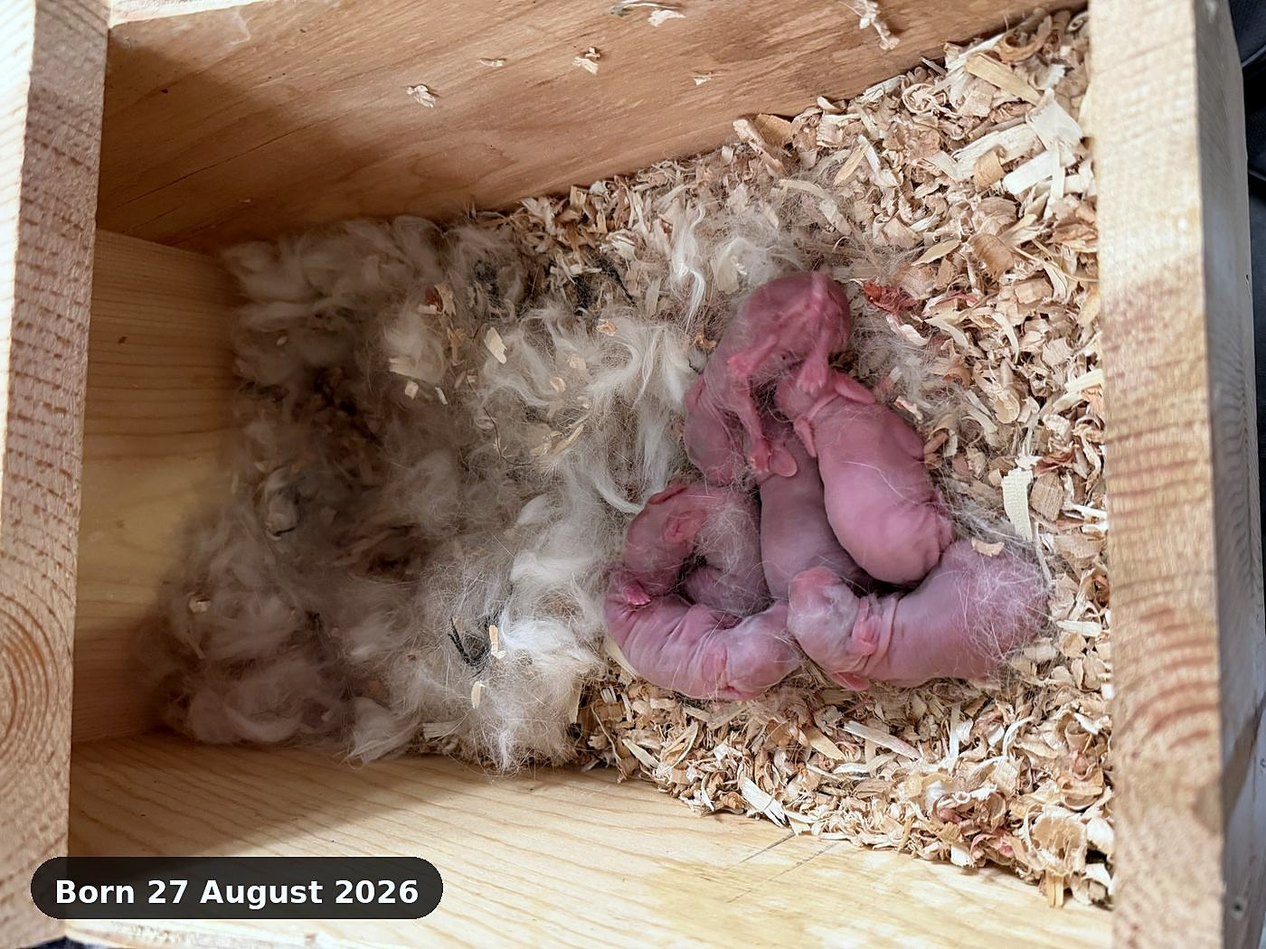
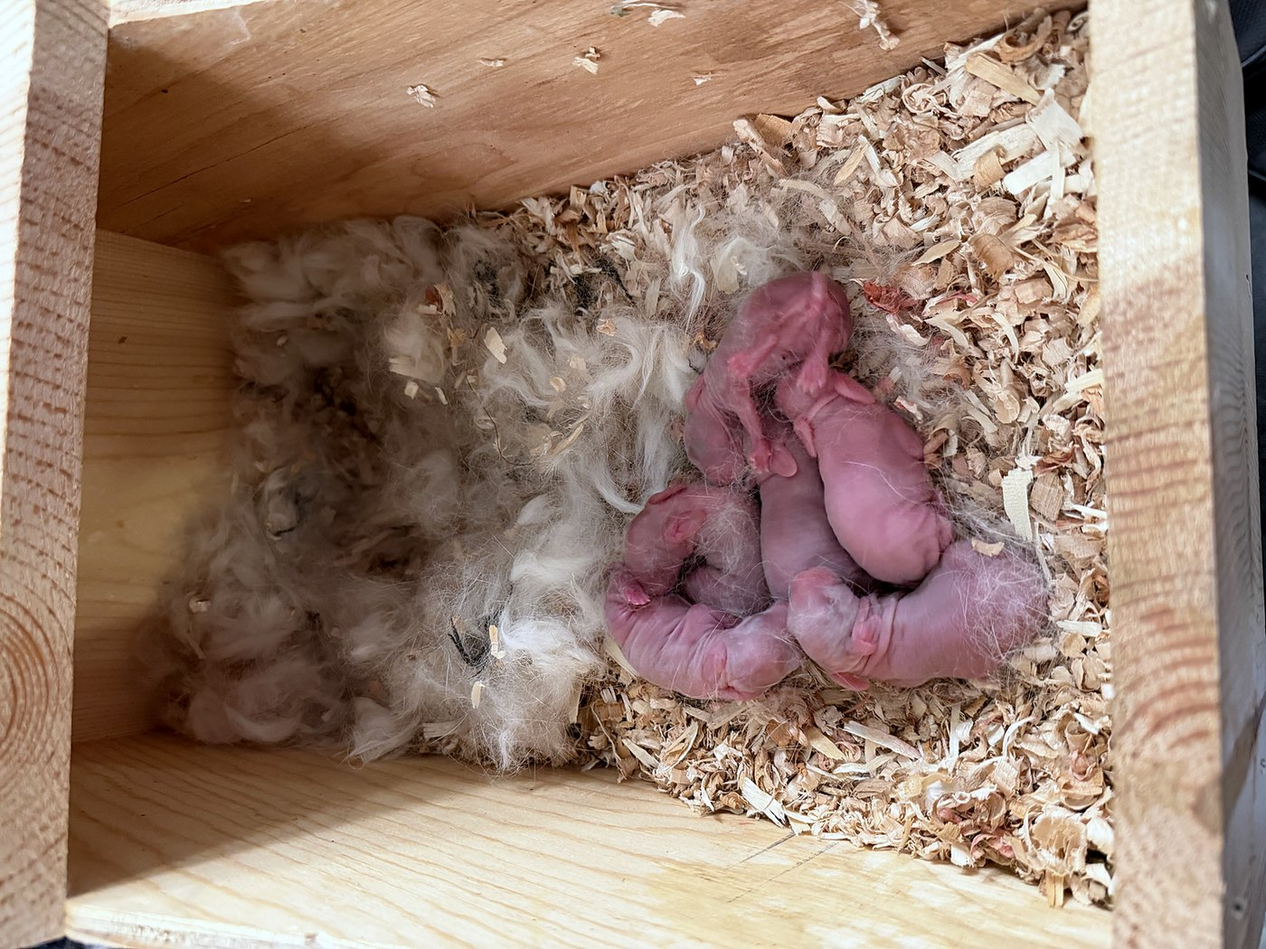
The litters follow the listing: clean photographs, the same pill, the same frame
Make the litters follow the same photo format as the rabbits. No photograph
on the site carries a burned date any more: the six litter photographs are
rebuilt from their originals with the framing they have always had, and the
litter photo view is built on the listing's stage, with the listing's own
date pill over the same corner at the same size, the frame the picture's own
shape, the same width as a listing's stage on a phone and on a desktop.

Claude-Session: https://claude.ai/code/session_01VUqLFuDNtaLypySjv9cGdS

Changed region(s): [[0.0, 0.8838, 0.3686, 0.9752]]

diff --git a/litters.html b/litters.html
@@ -4,19 +4,19 @@
 <meta charset="utf-8">
 <meta name="viewport" content="width=device-width, initial-scale=1, viewport-fit=cover">
 <title>Litters | Arizona Rabbits</title>
-<meta name="description" content="The photo I take the day a litter is born, with the date on the picture itself.">
+<meta name="description" content="The photo I take the day a litter is born, kept from then on with the date I took it.">
 <meta name="theme-color" content="#241F1D">
 <link rel="canonical" href="https://arizonarabbits.com/litters">
 
 <meta property="og:type" content="website">
 <meta property="og:site_name" content="Arizona Rabbits">
 <meta property="og:title" content="Every litter, with the photo taken the day they were born">
-<meta property="og:description" content="A dated record of every litter raised at Arizona Rabbits in Tucson. The date is burned into each photograph so you can check it yourself.">
+<meta property="og:description" content="A dated record of every litter raised at Arizona Rabbits in Tucson: the photo from the day each one was born, and the ones after as they grow, each with the date it was taken.">
 <meta property="og:url" content="https://arizonarabbits.com/litters">
 <meta property="og:image" content="https://arizonarabbits.com/img/og.jpg?v=6">
 <meta name="twitter:card" content="summary_large_image">
 <meta name="twitter:title" content="Every litter, with the photo taken the day they were born">
-<meta name="twitter:description" content="A dated record of every litter raised at Arizona Rabbits in Tucson. The date is burned into each photograph so you can check it yourself.">
+<meta name="twitter:description" content="A dated record of every litter raised at Arizona Rabbits in Tucson: the photo from the day each one was born, and the ones after as they grow, each with the date it was taken.">
 <meta name="twitter:image" content="https://arizonarabbits.com/img/og.jpg?v=6">
 
 <link rel="preconnect" href="https://fonts.googleapis.com">
@@ -125,18 +125,41 @@ h1{font-family:var(--serif);font-weight:600;font-size:clamp(30px,5vw,40px);
   font-size:11.5px;font-weight:600;letter-spacing:.02em;pointer-events:none;
   box-shadow:var(--lift-photo)}
 .shots svg{width:12px;height:12px;stroke:currentColor;fill:none;stroke-width:2}
-.lbox{position:fixed;inset:0;z-index:50;background:rgba(24,20,18,.94);display:flex;
-  flex-direction:column;align-items:center;justify-content:center;padding:56px 14px 22px}
-.lbox[hidden]{display:none}
-.lbox img{max-width:100%;max-height:calc(100vh - 190px);border-radius:8px;background:#000;
-  object-fit:contain}
 
-.lbox-stamp{margin-top:12px;display:inline-flex;gap:6px;align-items:baseline;padding:6px 14px;
-  border-radius:100px;background:rgba(255,255,255,.12);color:#fff;font-size:13.5px;font-weight:600;
-  white-space:nowrap}
-.lbox-stamp small{font-weight:500;opacity:.75;font-size:12.5px}
+.lbox{position:fixed;inset:0;z-index:50;background:rgba(24,20,18,.94);display:flex;
+  flex-direction:column;align-items:center;justify-content:center;padding:56px 8px 22px}
+.lbox[hidden]{display:none}
+.lbox-stage{position:relative;width:100%;aspect-ratio:var(--stage-ar,4/3);
+  max-width:calc((100vh - 190px) * var(--stage-ar,4/3));
+  border-radius:8px;overflow:hidden;background:#000;box-shadow:var(--lift-photo);flex:none}
+.lbox-stage img{position:absolute;inset:0;width:100%;height:100%;object-fit:cover;border-radius:0}
+.lbox-stage video{position:absolute;inset:0;width:100%;height:100%;object-fit:contain;background:#1A1613}
+.lbox-stage.video .vborn{bottom:60px}
+
+@media(min-width:920px){
+  .lbox-stage{width:min(100%,56vw,605px)}
+}
+
+.vborn{position:absolute;left:12px;bottom:12px;z-index:2;
+  display:inline-flex;align-items:center;gap:6px;max-width:calc(100% - 24px);
+  padding:6px 12px;border-radius:100px;
+  background:rgba(24,20,18,.62);color:#fff;
+  font-size:12.5px;font-weight:600;letter-spacing:.03em;line-height:1.25;
+  -webkit-backdrop-filter:blur(7px) saturate(1.2);backdrop-filter:blur(7px) saturate(1.2)}
+@media(prefers-reduced-transparency:reduce){
+  .vborn{background:rgba(24,20,18,.9);-webkit-backdrop-filter:none;backdrop-filter:none}
+}
+.vcam{width:14px;height:14px;flex:none;stroke:currentColor;fill:none;
+  stroke-width:2.2;stroke-linecap:round;stroke-linejoin:round}
+.vborn.nocam .vcam{display:none}
+.vborn .vfilm{display:none}
+.vborn.film .vcam{display:none}
+.vborn.film .vfilm{display:block;width:14px;height:14px;flex:none;stroke:currentColor;fill:none;
+  stroke-width:2.2;stroke-linecap:round;stroke-linejoin:round}
+.sr-only{position:absolute;width:1px;height:1px;padding:0;margin:-1px;
+  overflow:hidden;clip:rect(0 0 0 0);white-space:nowrap;border:0}
 .lbox-cap{color:#fff;opacity:.85;font-size:15px;line-height:1.45;text-align:center;
-  max-width:560px;margin:10px 0 0;min-height:1.45em}
+  max-width:560px;margin:12px 0 0;min-height:1.45em}
 .lbox button{position:absolute;border:0;border-radius:100px;background:rgba(255,255,255,.22);box-shadow:0 1px 6px rgba(0,0,0,.35);
   color:#fff;font-family:inherit;font-size:15px;font-weight:600;cursor:pointer;width:44px;height:44px;
   display:flex;align-items:center;justify-content:center;line-height:1}
@@ -234,7 +257,6 @@ body.lbox-open{overflow:hidden}
 .litter-set figure .clip{position:relative;display:block}
 .litter-set figure .pv{width:44px;height:44px;left:50%;top:50%;transform:translate(-50%,-50%)}
 .litter-set figure .pv::before{border-width:8px 0 8px 13px;margin-left:3px}
-.lbox video{max-width:100%;max-height:calc(100vh - 190px);border-radius:8px;background:#000;display:block}
 .lbox img[hidden],.lbox video[hidden]{display:none}
 .litter p{color:var(--ink-soft)}
 .litter p + p{margin-top:10px}
@@ -348,7 +370,7 @@ h1,h2,h3{text-wrap:balance}
       <a class="allback" href="#all">&larr; All litters</a>
       <div class="litter-card">
         <div class="litter-media" data-note="Six of them, in a nest of shavings and the fur their mother pulled to line it.">
-          <img src="photos/litter-2026-08-27.jpg?v=a335df58" srcset="photos/litter-2026-08-27.160.a335df58.jpg 160w, photos/litter-2026-08-27.320.a335df58.jpg 320w, photos/litter-2026-08-27.640.a335df58.jpg 640w, photos/litter-2026-08-27.960.a335df58.jpg 960w, photos/litter-2026-08-27.jpg?v=a335df58 1400w" sizes="(min-width:940px) 896px, 100vw" width="1400" height="1050"
+          <img src="photos/litter-2026-08-27.jpg?v=bcb889d9" srcset="photos/litter-2026-08-27.160.bcb889d9.jpg 160w, photos/litter-2026-08-27.320.bcb889d9.jpg 320w, photos/litter-2026-08-27.640.bcb889d9.jpg 640w, photos/litter-2026-08-27.960.bcb889d9.jpg 960w, photos/litter-2026-08-27.jpg?v=bcb889d9 1400w" sizes="(min-width:940px) 896px, 100vw" width="1400" height="1050"
                alt="Six newborn kits curled together in a wooden nest box lined with wood shavings and pulled fur">
         </div>
         <div class="litter-body">
@@ -379,21 +401,21 @@ h1,h2,h3{text-wrap:balance}
             <h3>As they grow</h3>
             <div class="frames">
               <figure>
-                <img src="photos/litter-2026-08-27-2026-09-02.jpg?v=41251654" srcset="photos/litter-2026-08-27-2026-09-02.160.41251654.jpg 160w, photos/litter-2026-08-27-2026-09-02.320.41251654.jpg 320w, photos/litter-2026-08-27-2026-09-02.640.41251654.jpg 640w, photos/litter-2026-08-27-2026-09-02.960.41251654.jpg 960w, photos/litter-2026-08-27-2026-09-02.jpg?v=41251654 1050w" sizes="(min-width:700px) 275px, 36vw" width="1050" height="1400" loading="lazy"
+                <img src="photos/litter-2026-08-27-2026-09-02.jpg?v=84f3e84e" srcset="photos/litter-2026-08-27-2026-09-02.160.84f3e84e.jpg 160w, photos/litter-2026-08-27-2026-09-02.320.84f3e84e.jpg 320w, photos/litter-2026-08-27-2026-09-02.640.84f3e84e.jpg 640w, photos/litter-2026-08-27-2026-09-02.960.84f3e84e.jpg 960w, photos/litter-2026-08-27-2026-09-02.jpg?v=84f3e84e 1050w" sizes="(min-width:700px) 275px, 36vw" width="1050" height="1400" loading="lazy"
                      alt="Six six-day-old kits on the floor beside the cage, one white and five fawn">
                 <figcaption><time datetime="2026-09-02">2 Sep 2026</time></figcaption>
                 <p>Six days old. One white and five fawn.</p>
               </figure>
               
               <figure>
-                <img src="photos/litter-2026-08-27-2026-09-06.jpg?v=4439e3b5" srcset="photos/litter-2026-08-27-2026-09-06.160.4439e3b5.jpg 160w, photos/litter-2026-08-27-2026-09-06.320.4439e3b5.jpg 320w, photos/litter-2026-08-27-2026-09-06.640.4439e3b5.jpg 640w, photos/litter-2026-08-27-2026-09-06.960.4439e3b5.jpg 960w, photos/litter-2026-08-27-2026-09-06.jpg?v=4439e3b5 1050w" sizes="(min-width:700px) 275px, 36vw" width="1050" height="1400" loading="lazy"
+                <img src="photos/litter-2026-08-27-2026-09-06.jpg?v=a2394528" srcset="photos/litter-2026-08-27-2026-09-06.160.a2394528.jpg 160w, photos/litter-2026-08-27-2026-09-06.320.a2394528.jpg 320w, photos/litter-2026-08-27-2026-09-06.640.a2394528.jpg 640w, photos/litter-2026-08-27-2026-09-06.960.a2394528.jpg 960w, photos/litter-2026-08-27-2026-09-06.jpg?v=a2394528 1050w" sizes="(min-width:700px) 275px, 36vw" width="1050" height="1400" loading="lazy"
                      alt="Six ten-day-old kits in the nest box, one white and five fawn, one held in a hand">
                 <figcaption><time datetime="2026-09-06">6 Sep 2026</time></figcaption>
                 <p>Ten days old. All six in the nest box, one in hand.</p>
               </figure>
               
               <figure>
-                <img src="photos/litter-2026-08-27-2026-09-08.jpg?v=5391d20d" srcset="photos/litter-2026-08-27-2026-09-08.160.5391d20d.jpg 160w, photos/litter-2026-08-27-2026-09-08.320.5391d20d.jpg 320w, photos/litter-2026-08-27-2026-09-08.640.5391d20d.jpg 640w, photos/litter-2026-08-27-2026-09-08.960.5391d20d.jpg 960w, photos/litter-2026-08-27-2026-09-08.jpg?v=5391d20d 1050w" sizes="(min-width:700px) 275px, 36vw" width="1050" height="1400" loading="lazy"
+                <img src="photos/litter-2026-08-27-2026-09-08.jpg?v=4c19393d" srcset="photos/litter-2026-08-27-2026-09-08.160.4c19393d.jpg 160w, photos/litter-2026-08-27-2026-09-08.320.4c19393d.jpg 320w, photos/litter-2026-08-27-2026-09-08.640.4c19393d.jpg 640w, photos/litter-2026-08-27-2026-09-08.960.4c19393d.jpg 960w, photos/litter-2026-08-27-2026-09-08.jpg?v=4c19393d 1050w" sizes="(min-width:700px) 275px, 36vw" width="1050" height="1400" loading="lazy"
                      alt="A twelve-day-old fawn kit lying on a grey towel in the cage, its eye open">
                 <figcaption><time datetime="2026-09-08">8 Sep 2026</time></figcaption>
                 <p>Twelve days old. Their eyes are starting to open.</p>
@@ -425,7 +447,7 @@ h1,h2,h3{text-wrap:balance}
       <a class="allback" href="#all">&larr; All litters</a>
       <div class="litter-card">
         <div class="litter-media" data-note="The day they arrived, before their eyes were open.">
-          <img src="photos/litter-2026-07-28.jpg?v=5d9e67b0" srcset="photos/litter-2026-07-28.160.5d9e67b0.jpg 160w, photos/litter-2026-07-28.320.5d9e67b0.jpg 320w, photos/litter-2026-07-28.640.5d9e67b0.jpg 640w, photos/litter-2026-07-28.960.5d9e67b0.jpg 960w, photos/litter-2026-07-28.jpg?v=5d9e67b0 1400w" sizes="(min-width:940px) 896px, 100vw" width="1400" height="1050"
+          <img src="photos/litter-2026-07-28.jpg?v=36389c88" srcset="photos/litter-2026-07-28.160.36389c88.jpg 160w, photos/litter-2026-07-28.320.36389c88.jpg 320w, photos/litter-2026-07-28.640.36389c88.jpg 640w, photos/litter-2026-07-28.960.36389c88.jpg 960w, photos/litter-2026-07-28.jpg?v=36389c88 1400w" sizes="(min-width:940px) 896px, 100vw" width="1400" height="1050"
                alt="Newborn kits curled together in a hay and fur nest box, with a month-old fawn rabbit from the previous litter beside them">
         </div>
         <div class="litter-body">
@@ -480,7 +502,7 @@ h1,h2,h3{text-wrap:balance}
       <a class="allback" href="#all">&larr; All litters</a>
       <div class="litter-card">
         <div class="litter-media" data-note="One of the five on the day they were born, over the fur their mother pulled for a nest.">
-          <img src="photos/litter-2026-06-28.jpg?v=8eabab02" srcset="photos/litter-2026-06-28.160.8eabab02.jpg 160w, photos/litter-2026-06-28.320.8eabab02.jpg 320w, photos/litter-2026-06-28.640.8eabab02.jpg 640w, photos/litter-2026-06-28.960.8eabab02.jpg 960w, photos/litter-2026-06-28.jpg?v=8eabab02 1400w" sizes="(min-width:940px) 896px, 100vw" width="1400" height="1050"
+          <img src="photos/litter-2026-06-28.jpg?v=5816cb81" srcset="photos/litter-2026-06-28.160.5816cb81.jpg 160w, photos/litter-2026-06-28.320.5816cb81.jpg 320w, photos/litter-2026-06-28.640.5816cb81.jpg 640w, photos/litter-2026-06-28.960.5816cb81.jpg 960w, photos/litter-2026-06-28.jpg?v=5816cb81 1400w" sizes="(min-width:940px) 896px, 100vw" width="1400" height="1050"
                alt="A newborn kit in William's hand above a metal tray lined with pulled fur, inside a green cage">
         </div>
         <div class="litter-body">
@@ -513,16 +535,15 @@ h1,h2,h3{text-wrap:balance}
 
     <div class="browse" id="all">
 
-      <p class="lede">The photo I take the day a litter is born, kept here from then on. The
-      date is on the picture itself, so you can see for yourself that these are mine. Every
-      litter I have ever had is here, nothing left out, starting with my first ever on
-      28 June 2026. Anything newer than the last litter here is in the
+      <p class="lede">The photo I take the day a litter is born, kept here from then on with
+      the date I took it. Every litter I have ever had is here, nothing left out, starting
+      with my first ever on 28 June 2026. Anything newer than the last litter here is in the
       <a class="xlink" href="updates.html">news</a>.</p>
 
       <div class="grid">
 
         <a class="tile" href="#L2026-08-27">
-          <img src="photos/litter-2026-08-27.jpg?v=a335df58" srcset="photos/litter-2026-08-27.160.a335df58.jpg 160w, photos/litter-2026-08-27.320.a335df58.jpg 320w, photos/litter-2026-08-27.640.a335df58.jpg 640w, photos/litter-2026-08-27.960.a335df58.jpg 960w, photos/litter-2026-08-27.jpg?v=a335df58 1400w" sizes="(min-width:700px) 275px, 36vw" width="1400" height="1050" loading="lazy"
+          <img src="photos/litter-2026-08-27.jpg?v=bcb889d9" srcset="photos/litter-2026-08-27.160.bcb889d9.jpg 160w, photos/litter-2026-08-27.320.bcb889d9.jpg 320w, photos/litter-2026-08-27.640.bcb889d9.jpg 640w, photos/litter-2026-08-27.960.bcb889d9.jpg 960w, photos/litter-2026-08-27.jpg?v=bcb889d9 1400w" sizes="(min-width:700px) 275px, 36vw" width="1400" height="1050" loading="lazy"
                alt="Six newborn kits in a nest of wood shavings and pulled fur">
           <div class="tile-body">
             <small data-fact="litter-no:2026-08-27" class="tile-no">Third litter</small>
@@ -533,7 +554,7 @@ h1,h2,h3{text-wrap:balance}
         </a>
 
         <a class="tile" href="#L2026-07-28">
-          <img src="photos/litter-2026-07-28.jpg?v=5d9e67b0" srcset="photos/litter-2026-07-28.160.5d9e67b0.jpg 160w, photos/litter-2026-07-28.320.5d9e67b0.jpg 320w, photos/litter-2026-07-28.640.5d9e67b0.jpg 640w, photos/litter-2026-07-28.960.5d9e67b0.jpg 960w, photos/litter-2026-07-28.jpg?v=5d9e67b0 1400w" sizes="(min-width:700px) 275px, 36vw" width="1400" height="1050" loading="lazy"
+          <img src="photos/litter-2026-07-28.jpg?v=36389c88" srcset="photos/litter-2026-07-28.160.36389c88.jpg 160w, photos/litter-2026-07-28.320.36389c88.jpg 320w, photos/litter-2026-07-28.640.36389c88.jpg 640w, photos/litter-2026-07-28.960.36389c88.jpg 960w, photos/litter-2026-07-28.jpg?v=36389c88 1400w" sizes="(min-width:700px) 275px, 36vw" width="1400" height="1050" loading="lazy"
                alt="Newborn kits curled together in a hay and fur nest box">
           <div class="tile-body">
             <small data-fact="litter-no:2026-07-28" class="tile-no">Second litter</small>
@@ -544,7 +565,7 @@ h1,h2,h3{text-wrap:balance}
         </a>
 
         <a class="tile" href="#L2026-06-28">
-          <img src="photos/litter-2026-06-28.jpg?v=8eabab02" srcset="photos/litter-2026-06-28.160.8eabab02.jpg 160w, photos/litter-2026-06-28.320.8eabab02.jpg 320w, photos/litter-2026-06-28.640.8eabab02.jpg 640w, photos/litter-2026-06-28.960.8eabab02.jpg 960w, photos/litter-2026-06-28.jpg?v=8eabab02 1400w" sizes="(min-width:700px) 275px, 36vw" width="1400" height="1050" loading="lazy"
+          <img src="photos/litter-2026-06-28.jpg?v=5816cb81" srcset="photos/litter-2026-06-28.160.5816cb81.jpg 160w, photos/litter-2026-06-28.320.5816cb81.jpg 320w, photos/litter-2026-06-28.640.5816cb81.jpg 640w, photos/litter-2026-06-28.960.5816cb81.jpg 960w, photos/litter-2026-06-28.jpg?v=5816cb81 1400w" sizes="(min-width:700px) 275px, 36vw" width="1400" height="1050" loading="lazy"
                alt="A newborn kit in a hand above a tray lined with pulled fur">
           <div class="tile-body">
             <small data-fact="litter-no:2026-06-28" class="tile-no">First litter</small>
@@ -576,8 +597,8 @@ h1,h2,h3{text-wrap:balance}
   </div>
 </footer>
 
-<script id="photoFocus" type="application/json">{"photos/litter-2026-08-27-2026-09-06.jpg":"50% 37.4%","photos/litter-2026-08-27-2026-09-08.jpg":"50% 36.4%","photos/litter-2026-08-27-2026-09-11-video.jpg":"0% 50%"}</script>
-<script id="photoSizes" type="application/json">{"img/about.jpg":{"v":[[160,"img/about.160.3a9c523e.jpg"],[320,"img/about.320.3a9c523e.jpg"],[640,"img/about.640.3a9c523e.jpg"],[960,"img/about.960.3a9c523e.jpg"]],"w":1000},"img/included.jpg":{"v":[[160,"img/included.160.a2a15768.jpg"],[320,"img/included.320.a2a15768.jpg"],[640,"img/included.640.a2a15768.jpg"]],"w":800},"photos/butterscotch.jpg":{"v":[[160,"photos/butterscotch.160.4855dad5.jpg"],[320,"photos/butterscotch.320.4855dad5.jpg"],[640,"photos/butterscotch.640.4855dad5.jpg"],[960,"photos/butterscotch.960.4855dad5.jpg"]],"w":1000},"photos/cloud.jpg":{"v":[[160,"photos/cloud.160.936bda0a.jpg"],[320,"photos/cloud.320.936bda0a.jpg"],[640,"photos/cloud.640.936bda0a.jpg"],[960,"photos/cloud.960.936bda0a.jpg"]],"w":1000},"photos/father-2.jpg":{"v":[[160,"photos/father-2.160.607c5d09.jpg"],[320,"photos/father-2.320.607c5d09.jpg"],[640,"photos/father-2.640.607c5d09.jpg"],[960,"photos/father-2.960.607c5d09.jpg"]],"w":1448},"photos/father-video.jpg":{"v":[[160,"photos/father-video.160.539b3407.jpg"],[320,"photos/father-video.320.539b3407.jpg"],[640,"photos/father-video.640.539b3407.jpg"]],"w":960},"photos/litter-2026-06-28.jpg":{"v":[[160,"photos/litter-2026-06-28.160.8eabab02.jpg"],[320,"photos/litter-2026-06-28.320.8eabab02.jpg"],[640,"photos/litter-2026-06-28.640.8eabab02.jpg"],[960,"photos/litter-2026-06-28.960.8eabab02.jpg"]],"w":1400},"photos/litter-2026-07-28.jpg":{"v":[[160,"photos/litter-2026-07-28.160.5d9e67b0.jpg"],[320,"photos/litter-2026-07-28.320.5d9e67b0.jpg"],[640,"photos/litter-2026-07-28.640.5d9e67b0.jpg"],[960,"photos/litter-2026-07-28.960.5d9e67b0.jpg"]],"w":1400},"photos/litter-2026-08-27-2026-09-02.jpg":{"v":[[160,"photos/litter-2026-08-27-2026-09-02.160.41251654.jpg"],[320,"photos/litter-2026-08-27-2026-09-02.320.41251654.jpg"],[640,"photos/litter-2026-08-27-2026-09-02.640.41251654.jpg"],[960,"photos/litter-2026-08-27-2026-09-02.960.41251654.jpg"]],"w":1050},"photos/litter-2026-08-27-2026-09-06.jpg":{"v":[[160,"photos/litter-2026-08-27-2026-09-06.160.4439e3b5.jpg"],[320,"photos/litter-2026-08-27-2026-09-06.320.4439e3b5.jpg"],[640,"photos/litter-2026-08-27-2026-09-06.640.4439e3b5.jpg"],[960,"photos/litter-2026-08-27-2026-09-06.960.4439e3b5.jpg"]],"w":1050},"photos/litter-2026-08-27-2026-09-08.jpg":{"v":[[160,"photos/litter-2026-08-27-2026-09-08.160.5391d20d.jpg"],[320,"photos/litter-2026-08-27-2026-09-08.320.5391d20d.jpg"],[640,"photos/litter-2026-08-27-2026-09-08.640.5391d20d.jpg"],[960,"photos/litter-2026-08-27-2026-09-08.960.5391d20d.jpg"]],"w":1050},"photos/litter-2026-08-27-2026-09-11-video.jpg":{"v":[[160,"photos/litter-2026-08-27-2026-09-11-video.160.132b6984.jpg"],[320,"photos/litter-2026-08-27-2026-09-11-video.320.132b6984.jpg"],[640,"photos/litter-2026-08-27-2026-09-11-video.640.132b6984.jpg"],[960,"photos/litter-2026-08-27-2026-09-11-video.960.132b6984.jpg"]],"w":1289},"photos/litter-2026-08-27.jpg":{"v":[[160,"photos/litter-2026-08-27.160.a335df58.jpg"],[320,"photos/litter-2026-08-27.320.a335df58.jpg"],[640,"photos/litter-2026-08-27.640.a335df58.jpg"],[960,"photos/litter-2026-08-27.960.a335df58.jpg"]],"w":1400},"photos/mother-2.jpg":{"v":[[160,"photos/mother-2.160.55c3d426.jpg"],[320,"photos/mother-2.320.55c3d426.jpg"],[640,"photos/mother-2.640.55c3d426.jpg"],[960,"photos/mother-2.960.55c3d426.jpg"]],"w":1600},"photos/mother.jpg":{"v":[[160,"photos/mother.160.82c16a60.jpg"],[320,"photos/mother.320.82c16a60.jpg"],[640,"photos/mother.640.82c16a60.jpg"],[960,"photos/mother.960.82c16a60.jpg"]],"w":1600},"photos/sundae.jpg":{"v":[[160,"photos/sundae.160.9a03d75c.jpg"],[320,"photos/sundae.320.9a03d75c.jpg"],[640,"photos/sundae.640.9a03d75c.jpg"],[960,"photos/sundae.960.9a03d75c.jpg"]],"w":1000},"photos/teddy.jpg":{"v":[[160,"photos/teddy.160.9068ff3a.jpg"],[320,"photos/teddy.320.9068ff3a.jpg"],[640,"photos/teddy.640.9068ff3a.jpg"],[960,"photos/teddy.960.9068ff3a.jpg"]],"w":1000}}</script>
+<script id="photoFocus" type="application/json">{"photos/litter-2026-08-27-2026-09-06.jpg":"50% 37.6%","photos/litter-2026-08-27-2026-09-08.jpg":"50% 36.5%","photos/litter-2026-08-27-2026-09-11-video.jpg":"0% 50%"}</script>
+<script id="photoSizes" type="application/json">{"img/about.jpg":{"v":[[160,"img/about.160.3a9c523e.jpg"],[320,"img/about.320.3a9c523e.jpg"],[640,"img/about.640.3a9c523e.jpg"],[960,"img/about.960.3a9c523e.jpg"]],"w":1000},"img/included.jpg":{"v":[[160,"img/included.160.a2a15768.jpg"],[320,"img/included.320.a2a15768.jpg"],[640,"img/included.640.a2a15768.jpg"]],"w":800},"photos/butterscotch.jpg":{"v":[[160,"photos/butterscotch.160.4855dad5.jpg"],[320,"photos/butterscotch.320.4855dad5.jpg"],[640,"photos/butterscotch.640.4855dad5.jpg"],[960,"photos/butterscotch.960.4855dad5.jpg"]],"w":1000},"photos/cloud.jpg":{"v":[[160,"photos/cloud.160.936bda0a.jpg"],[320,"photos/cloud.320.936bda0a.jpg"],[640,"photos/cloud.640.936bda0a.jpg"],[960,"photos/cloud.960.936bda0a.jpg"]],"w":1000},"photos/father-2.jpg":{"v":[[160,"photos/father-2.160.607c5d09.jpg"],[320,"photos/father-2.320.607c5d09.jpg"],[640,"photos/father-2.640.607c5d09.jpg"],[960,"photos/father-2.960.607c5d09.jpg"]],"w":1448},"photos/father-video.jpg":{"v":[[160,"photos/father-video.160.539b3407.jpg"],[320,"photos/father-video.320.539b3407.jpg"],[640,"photos/father-video.640.539b3407.jpg"]],"w":960},"photos/litter-2026-06-28.jpg":{"v":[[160,"photos/litter-2026-06-28.160.5816cb81.jpg"],[320,"photos/litter-2026-06-28.320.5816cb81.jpg"],[640,"photos/litter-2026-06-28.640.5816cb81.jpg"],[960,"photos/litter-2026-06-28.960.5816cb81.jpg"]],"w":1400},"photos/litter-2026-07-28.jpg":{"v":[[160,"photos/litter-2026-07-28.160.36389c88.jpg"],[320,"photos/litter-2026-07-28.320.36389c88.jpg"],[640,"photos/litter-2026-07-28.640.36389c88.jpg"],[960,"photos/litter-2026-07-28.960.36389c88.jpg"]],"w":1400},"photos/litter-2026-08-27-2026-09-02.jpg":{"v":[[160,"photos/litter-2026-08-27-2026-09-02.160.84f3e84e.jpg"],[320,"photos/litter-2026-08-27-2026-09-02.320.84f3e84e.jpg"],[640,"photos/litter-2026-08-27-2026-09-02.640.84f3e84e.jpg"],[960,"photos/litter-2026-08-27-2026-09-02.960.84f3e84e.jpg"]],"w":1050},"photos/litter-2026-08-27-2026-09-06.jpg":{"v":[[160,"photos/litter-2026-08-27-2026-09-06.160.a2394528.jpg"],[320,"photos/litter-2026-08-27-2026-09-06.320.a2394528.jpg"],[640,"photos/litter-2026-08-27-2026-09-06.640.a2394528.jpg"],[960,"photos/litter-2026-08-27-2026-09-06.960.a2394528.jpg"]],"w":1050},"photos/litter-2026-08-27-2026-09-08.jpg":{"v":[[160,"photos/litter-2026-08-27-2026-09-08.160.4c19393d.jpg"],[320,"photos/litter-2026-08-27-2026-09-08.320.4c19393d.jpg"],[640,"photos/litter-2026-08-27-2026-09-08.640.4c19393d.jpg"],[960,"photos/litter-2026-08-27-2026-09-08.960.4c19393d.jpg"]],"w":1050},"photos/litter-2026-08-27-2026-09-11-video.jpg":{"v":[[160,"photos/litter-2026-08-27-2026-09-11-video.160.132b6984.jpg"],[320,"photos/litter-2026-08-27-2026-09-11-video.320.132b6984.jpg"],[640,"photos/litter-2026-08-27-2026-09-11-video.640.132b6984.jpg"],[960,"photos/litter-2026-08-27-2026-09-11-video.960.132b6984.jpg"]],"w":1289},"photos/litter-2026-08-27.jpg":{"v":[[160,"photos/litter-2026-08-27.160.bcb889d9.jpg"],[320,"photos/litter-2026-08-27.320.bcb889d9.jpg"],[640,"photos/litter-2026-08-27.640.bcb889d9.jpg"],[960,"photos/litter-2026-08-27.960.bcb889d9.jpg"]],"w":1400},"photos/mother-2.jpg":{"v":[[160,"photos/mother-2.160.55c3d426.jpg"],[320,"photos/mother-2.320.55c3d426.jpg"],[640,"photos/mother-2.640.55c3d426.jpg"],[960,"photos/mother-2.960.55c3d426.jpg"]],"w":1600},"photos/mother.jpg":{"v":[[160,"photos/mother.160.82c16a60.jpg"],[320,"photos/mother.320.82c16a60.jpg"],[640,"photos/mother.640.82c16a60.jpg"],[960,"photos/mother.960.82c16a60.jpg"]],"w":1600},"photos/sundae.jpg":{"v":[[160,"photos/sundae.160.9a03d75c.jpg"],[320,"photos/sundae.320.9a03d75c.jpg"],[640,"photos/sundae.640.9a03d75c.jpg"],[960,"photos/sundae.960.9a03d75c.jpg"]],"w":1000},"photos/teddy.jpg":{"v":[[160,"photos/teddy.160.9068ff3a.jpg"],[320,"photos/teddy.320.9068ff3a.jpg"],[640,"photos/teddy.640.9068ff3a.jpg"],[960,"photos/teddy.960.9068ff3a.jpg"]],"w":1000}}</script>
 <script>
 var PHOTO_FOCUS=(function(){
   try{ var el=document.getElementById('photoFocus');
@@ -597,7 +618,9 @@ var PHOTO_SIZES=(function(){
   try{ var el=document.getElementById('photoSizes');
        return el?(JSON.parse(el.textContent||'{}')||{}):{}; }catch(e){ return {}; }
 })();
+var STAGE_SIZES='(min-width:1128px) 605px, (min-width:920px) 56vw, 100vw';   /* the listing's stage, index.html */
 function setSizes(im,src,sizes){ var s=String(src||'').replace(/\?v=[0-9a-f]+/,''), e=PHOTO_SIZES[s];
+  im.removeAttribute('srcset'); im.removeAttribute('sizes');   /* a reused element never keeps the last picture's list */
   if(!e||!e.v||!e.v.length) return;
   var parts=e.v.map(function(v){return v[1]+' '+v[0]+'w'}); parts.push(s+' '+e.w+'w');
   im.setAttribute('sizes',sizes); im.setAttribute('srcset',parts.join(', ')); }
@@ -816,41 +839,65 @@ function setSizes(im,src,sizes){ var s=String(src||'').replace(/\?v=[0-9a-f]+/,'
     box.innerHTML=
       '<span class="counter" id="lbCount"></span>'+
       '<button type="button" class="close" aria-label="Close">\u2715</button>'+
-      '<img id="lbImg" alt="">'+
-      '<video id="lbVideo" playsinline preload="metadata" controls hidden></video>'+
-      '<div class="lbox-stamp"><small id="lbWhat"></small><span id="lbText"></span></div>'+
+      '<div class="lbox-stage" id="lbStage">'+
+        '<img id="lbImg" alt="">'+
+        '<video id="lbVideo" playsinline preload="metadata" controls hidden></video>'+
+        '<span class="vborn" id="lbBorn">'+
+          '<svg class="vcam" viewBox="0 0 24 24" aria-hidden="true">'+
+            '<rect x="3" y="7" width="18" height="13" rx="2.6"/>'+
+            '<path d="M8.6 7l1.3-2.3h4.2L15.4 7"/>'+
+            '<circle cx="12" cy="13.6" r="3.2"/>'+
+          '</svg><svg class="vfilm" viewBox="0 0 24 24" aria-hidden="true">'+
+            '<rect x="3" y="5" width="18" height="14" rx="2.6"/>'+
+            '<path d="M10 9.2v5.6l4.6-2.8z" fill="currentColor" stroke="none"/>'+
+          '</svg><span class="sr-only" id="lbWhat"></span><span id="lbText"></span>'+
+        '</span>'+
+      '</div>'+
       '<p class="lbox-cap" id="lbCap"></p>'+
       '<button type="button" class="prev" aria-label="Previous photo">\u2039</button>'+
       '<button type="button" class="next" aria-label="Next photo">\u203A</button>';
     document.body.appendChild(box);
-    var lbImg=box.querySelector('#lbImg'), lbVideo=box.querySelector('#lbVideo'), lbWhat=box.querySelector('#lbWhat'),
+    var lbStage=box.querySelector('#lbStage'), lbBorn=box.querySelector('#lbBorn'),
+        lbImg=box.querySelector('#lbImg'), lbVideo=box.querySelector('#lbVideo'), lbWhat=box.querySelector('#lbWhat'),
         lbText=box.querySelector('#lbText'), lbCap=box.querySelector('#lbCap'),
         lbCount=box.querySelector('#lbCount'),
         bClose=box.querySelector('.close'), bPrev=box.querySelector('.prev'), bNext=box.querySelector('.next');
     var shots=[], born='', at=0, lastFocus=null, label='';
 
+    function setFrame(s){
+      if(s.w&&s.h) lbStage.style.setProperty('--stage-ar', s.w+'/'+s.h);
+      else if(lbImg.naturalWidth) lbStage.style.setProperty('--stage-ar', lbImg.naturalWidth+'/'+lbImg.naturalHeight);
+    }
+    lbImg.addEventListener('load',function(){
+      var s=shots[at]; if(s&&!(s.w&&s.h)&&lbImg.naturalWidth) lbStage.style.setProperty('--stage-ar', lbImg.naturalWidth+'/'+lbImg.naturalHeight);
+    });
     function stopVideo(){
       if(!lbVideo) return;
       try{ lbVideo.pause(); }catch(e){}
       if(lbVideo.getAttribute('src')){ lbVideo.removeAttribute('src'); lbVideo.removeAttribute('poster'); lbVideo.load(); }
-      lbVideo.hidden=true; lbImg.hidden=false;
+      lbVideo.hidden=true; lbImg.hidden=false; lbStage.classList.remove('video');
     }
     function paint(i){
       if(i<0||i>=shots.length) return;
       at=i; var s=shots[at];
+      setFrame(s);
       if(s.video&&lbVideo){
         lbImg.removeAttribute('src'); lbImg.alt=''; lbImg.hidden=true;
         lbVideo.setAttribute('poster', s.src);
         lbVideo.setAttribute('src', s.video);
         lbVideo.setAttribute('aria-label', label+', video '+(at+1)+' of '+shots.length+(s.date?(', filmed '+nice(s.date)):''));
-        lbVideo.hidden=false; lbVideo.load();
+        lbVideo.hidden=false; lbVideo.load(); lbStage.classList.add('video');
       } else {
         stopVideo();
+        setSizes(lbImg, s.src, STAGE_SIZES);
         lbImg.src=s.src; lbImg.alt=label+', photo '+(at+1)+' of '+shots.length;
       }
       var age=ageAt(born,s.date);
       lbText.textContent=s.date?(nice(s.date)+(age?(' \u00B7 '+age):'')):(born?('Born '+nice(born)):'');
       lbWhat.textContent=s.date?(s.video?'Filmed ':'Photo taken '):'';
+      lbBorn.classList.toggle('nocam',!s.date);
+      lbBorn.classList.toggle('film',!!(s.date&&s.video));
+      lbBorn.style.display=lbText.textContent?'':'none';
       lbCap.textContent=s.note||'';
       lbCount.textContent=(at+1)+' of '+shots.length;
       bPrev.disabled=(at===0); bNext.disabled=(at===shots.length-1);
@@ -884,13 +931,14 @@ function setSizes(im,src,sizes){ var s=String(src||'').replace(/\?v=[0-9a-f]+/,'
         var t=art.querySelector('time'); var dob=t?(t.getAttribute('datetime')||''):'';
         var h=art.querySelector('h2'); var name=(h?h.textContent:'')||'Litter';
         var set=[];
-        if(mimg) set.push({src:mimg.getAttribute('src'), date:dob, note:media.getAttribute('data-note')||''});
+        var shaped=function(o,el){ var w=el?+el.getAttribute('width'):0, h=el?+el.getAttribute('height'):0; if(w>0&&h>0){ o.w=w; o.h=h; } return o; };
+        if(mimg) set.push(shaped({src:mimg.getAttribute('src'), date:dob, note:media.getAttribute('data-note')||''}, mimg));
         for(var k=0;k<figs.length;k++){
           var fg=figs[k], im=fg.querySelector('img'), tm=fg.querySelector('time'), nt=fg.querySelector('p');
           var when=tm?(tm.getAttribute('datetime')||''):'';
           var clip=fg.getAttribute('data-video')||'';
-          set.push({src:im?im.getAttribute('src'):'', date:when, video:clip,
-                    note:nt?(nt.textContent||'').replace(/\s+/g,' ').trim():''});
+          set.push(shaped({src:im?im.getAttribute('src'):'', date:when, video:clip,
+                    note:nt?(nt.textContent||'').replace(/\s+/g,' ').trim():''}, im));
           if(tm&&when){ var age=ageAt(dob,when); if(age){
             var sp=document.createElement('span'); sp.className='age'; sp.textContent='\u00B7 '+age;
             tm.parentNode.appendChild(document.createTextNode(' ')); tm.parentNode.appendChild(sp); } }

diff --git a/index.html b/index.html
@@ -2088,10 +2088,10 @@ body.locked{overflow:hidden}
   </div>
 </div>
 
-<script id="photoFocus" type="application/json">{"photos/litter-2026-08-27-2026-09-06.jpg":"50% 37.4%","photos/litter-2026-08-27-2026-09-08.jpg":"50% 36.4%","photos/litter-2026-08-27-2026-09-11-video.jpg":"0% 50%"}</script>
+<script id="photoFocus" type="application/json">{"photos/litter-2026-08-27-2026-09-06.jpg":"50% 37.6%","photos/litter-2026-08-27-2026-09-08.jpg":"50% 36.5%","photos/litter-2026-08-27-2026-09-11-video.jpg":"0% 50%"}</script>
 
 <script id="photoShape" type="application/json">{"photos/butterscotch.jpg":"1000/750","photos/cloud.jpg":"1000/750","photos/father-2.jpg":"1448/1086","photos/father-video.jpg":"960/720","photos/litter-2026-06-28.jpg":"1400/1050","photos/litter-2026-07-28.jpg":"1400/1050","photos/litter-2026-08-27-2026-09-02.jpg":"1050/1400","photos/litter-2026-08-27-2026-09-06.jpg":"1050/1400","photos/litter-2026-08-27-2026-09-08.jpg":"1050/1400","photos/litter-2026-08-27-2026-09-11-video.jpg":"1289/966","photos/litter-2026-08-27.jpg":"1400/1050","photos/mother-2.jpg":"1600/1200","photos/mother.jpg":"1600/1200","photos/sundae.jpg":"1000/750","photos/teddy.jpg":"1000/750"}</script>
-<script id="photoSizes" type="application/json">{"img/about.jpg":{"v":[[160,"img/about.160.3a9c523e.jpg"],[320,"img/about.320.3a9c523e.jpg"],[640,"img/about.640.3a9c523e.jpg"],[960,"img/about.960.3a9c523e.jpg"]],"w":1000},"img/included.jpg":{"v":[[160,"img/included.160.a2a15768.jpg"],[320,"img/included.320.a2a15768.jpg"],[640,"img/included.640.a2a15768.jpg"]],"w":800},"photos/butterscotch.jpg":{"v":[[160,"photos/butterscotch.160.4855dad5.jpg"],[320,"photos/butterscotch.320.4855dad5.jpg"],[640,"photos/butterscotch.640.4855dad5.jpg"],[960,"photos/butterscotch.960.4855dad5.jpg"]],"w":1000},"photos/cloud.jpg":{"v":[[160,"photos/cloud.160.936bda0a.jpg"],[320,"photos/cloud.320.936bda0a.jpg"],[640,"photos/cloud.640.936bda0a.jpg"],[960,"photos/cloud.960.936bda0a.jpg"]],"w":1000},"photos/father-2.jpg":{"v":[[160,"photos/father-2.160.607c5d09.jpg"],[320,"photos/father-2.320.607c5d09.jpg"],[640,"photos/father-2.640.607c5d09.jpg"],[960,"photos/father-2.960.607c5d09.jpg"]],"w":1448},"photos/father-video.jpg":{"v":[[160,"photos/father-video.160.539b3407.jpg"],[320,"photos/father-video.320.539b3407.jpg"],[640,"photos/father-video.640.539b3407.jpg"]],"w":960},"photos/litter-2026-06-28.jpg":{"v":[[160,"photos/litter-2026-06-28.160.8eabab02.jpg"],[320,"photos/litter-2026-06-28.320.8eabab02.jpg"],[640,"photos/litter-2026-06-28.640.8eabab02.jpg"],[960,"photos/litter-2026-06-28.960.8eabab02.jpg"]],"w":1400},"photos/litter-2026-07-28.jpg":{"v":[[160,"photos/litter-2026-07-28.160.5d9e67b0.jpg"],[320,"photos/litter-2026-07-28.320.5d9e67b0.jpg"],[640,"photos/litter-2026-07-28.640.5d9e67b0.jpg"],[960,"photos/litter-2026-07-28.960.5d9e67b0.jpg"]],"w":1400},"photos/litter-2026-08-27-2026-09-02.jpg":{"v":[[160,"photos/litter-2026-08-27-2026-09-02.160.41251654.jpg"],[320,"photos/litter-2026-08-27-2026-09-02.320.41251654.jpg"],[640,"photos/litter-2026-08-27-2026-09-02.640.41251654.jpg"],[960,"photos/litter-2026-08-27-2026-09-02.960.41251654.jpg"]],"w":1050},"photos/litter-2026-08-27-2026-09-06.jpg":{"v":[[160,"photos/litter-2026-08-27-2026-09-06.160.4439e3b5.jpg"],[320,"photos/litter-2026-08-27-2026-09-06.320.4439e3b5.jpg"],[640,"photos/litter-2026-08-27-2026-09-06.640.4439e3b5.jpg"],[960,"photos/litter-2026-08-27-2026-09-06.960.4439e3b5.jpg"]],"w":1050},"photos/litter-2026-08-27-2026-09-08.jpg":{"v":[[160,"photos/litter-2026-08-27-2026-09-08.160.5391d20d.jpg"],[320,"photos/litter-2026-08-27-2026-09-08.320.5391d20d.jpg"],[640,"photos/litter-2026-08-27-2026-09-08.640.5391d20d.jpg"],[960,"photos/litter-2026-08-27-2026-09-08.960.5391d20d.jpg"]],"w":1050},"photos/litter-2026-08-27-2026-09-11-video.jpg":{"v":[[160,"photos/litter-2026-08-27-2026-09-11-video.160.132b6984.jpg"],[320,"photos/litter-2026-08-27-2026-09-11-video.320.132b6984.jpg"],[640,"photos/litter-2026-08-27-2026-09-11-video.640.132b6984.jpg"],[960,"photos/litter-2026-08-27-2026-09-11-video.960.132b6984.jpg"]],"w":1289},"photos/litter-2026-08-27.jpg":{"v":[[160,"photos/litter-2026-08-27.160.a335df58.jpg"],[320,"photos/litter-2026-08-27.320.a335df58.jpg"],[640,"photos/litter-2026-08-27.640.a335df58.jpg"],[960,"photos/litter-2026-08-27.960.a335df58.jpg"]],"w":1400},"photos/mother-2.jpg":{"v":[[160,"photos/mother-2.160.55c3d426.jpg"],[320,"photos/mother-2.320.55c3d426.jpg"],[640,"photos/mother-2.640.55c3d426.jpg"],[960,"photos/mother-2.960.55c3d426.jpg"]],"w":1600},"photos/mother.jpg":{"v":[[160,"photos/mother.160.82c16a60.jpg"],[320,"photos/mother.320.82c16a60.jpg"],[640,"photos/mother.640.82c16a60.jpg"],[960,"photos/mother.960.82c16a60.jpg"]],"w":1600},"photos/sundae.jpg":{"v":[[160,"photos/sundae.160.9a03d75c.jpg"],[320,"photos/sundae.320.9a03d75c.jpg"],[640,"photos/sundae.640.9a03d75c.jpg"],[960,"photos/sundae.960.9a03d75c.jpg"]],"w":1000},"photos/teddy.jpg":{"v":[[160,"photos/teddy.160.9068ff3a.jpg"],[320,"photos/teddy.320.9068ff3a.jpg"],[640,"photos/teddy.640.9068ff3a.jpg"],[960,"photos/teddy.960.9068ff3a.jpg"]],"w":1000}}</script>
+<script id="photoSizes" type="application/json">{"img/about.jpg":{"v":[[160,"img/about.160.3a9c523e.jpg"],[320,"img/about.320.3a9c523e.jpg"],[640,"img/about.640.3a9c523e.jpg"],[960,"img/about.960.3a9c523e.jpg"]],"w":1000},"img/included.jpg":{"v":[[160,"img/included.160.a2a15768.jpg"],[320,"img/included.320.a2a15768.jpg"],[640,"img/included.640.a2a15768.jpg"]],"w":800},"photos/butterscotch.jpg":{"v":[[160,"photos/butterscotch.160.4855dad5.jpg"],[320,"photos/butterscotch.320.4855dad5.jpg"],[640,"photos/butterscotch.640.4855dad5.jpg"],[960,"photos/butterscotch.960.4855dad5.jpg"]],"w":1000},"photos/cloud.jpg":{"v":[[160,"photos/cloud.160.936bda0a.jpg"],[320,"photos/cloud.320.936bda0a.jpg"],[640,"photos/cloud.640.936bda0a.jpg"],[960,"photos/cloud.960.936bda0a.jpg"]],"w":1000},"photos/father-2.jpg":{"v":[[160,"photos/father-2.160.607c5d09.jpg"],[320,"photos/father-2.320.607c5d09.jpg"],[640,"photos/father-2.640.607c5d09.jpg"],[960,"photos/father-2.960.607c5d09.jpg"]],"w":1448},"photos/father-video.jpg":{"v":[[160,"photos/father-video.160.539b3407.jpg"],[320,"photos/father-video.320.539b3407.jpg"],[640,"photos/father-video.640.539b3407.jpg"]],"w":960},"photos/litter-2026-06-28.jpg":{"v":[[160,"photos/litter-2026-06-28.160.5816cb81.jpg"],[320,"photos/litter-2026-06-28.320.5816cb81.jpg"],[640,"photos/litter-2026-06-28.640.5816cb81.jpg"],[960,"photos/litter-2026-06-28.960.5816cb81.jpg"]],"w":1400},"photos/litter-2026-07-28.jpg":{"v":[[160,"photos/litter-2026-07-28.160.36389c88.jpg"],[320,"photos/litter-2026-07-28.320.36389c88.jpg"],[640,"photos/litter-2026-07-28.640.36389c88.jpg"],[960,"photos/litter-2026-07-28.960.36389c88.jpg"]],"w":1400},"photos/litter-2026-08-27-2026-09-02.jpg":{"v":[[160,"photos/litter-2026-08-27-2026-09-02.160.84f3e84e.jpg"],[320,"photos/litter-2026-08-27-2026-09-02.320.84f3e84e.jpg"],[640,"photos/litter-2026-08-27-2026-09-02.640.84f3e84e.jpg"],[960,"photos/litter-2026-08-27-2026-09-02.960.84f3e84e.jpg"]],"w":1050},"photos/litter-2026-08-27-2026-09-06.jpg":{"v":[[160,"photos/litter-2026-08-27-2026-09-06.160.a2394528.jpg"],[320,"photos/litter-2026-08-27-2026-09-06.320.a2394528.jpg"],[640,"photos/litter-2026-08-27-2026-09-06.640.a2394528.jpg"],[960,"photos/litter-2026-08-27-2026-09-06.960.a2394528.jpg"]],"w":1050},"photos/litter-2026-08-27-2026-09-08.jpg":{"v":[[160,"photos/litter-2026-08-27-2026-09-08.160.4c19393d.jpg"],[320,"photos/litter-2026-08-27-2026-09-08.320.4c19393d.jpg"],[640,"photos/litter-2026-08-27-2026-09-08.640.4c19393d.jpg"],[960,"photos/litter-2026-08-27-2026-09-08.960.4c19393d.jpg"]],"w":1050},"photos/litter-2026-08-27-2026-09-11-video.jpg":{"v":[[160,"photos/litter-2026-08-27-2026-09-11-video.160.132b6984.jpg"],[320,"photos/litter-2026-08-27-2026-09-11-video.320.132b6984.jpg"],[640,"photos/litter-2026-08-27-2026-09-11-video.640.132b6984.jpg"],[960,"photos/litter-2026-08-27-2026-09-11-video.960.132b6984.jpg"]],"w":1289},"photos/litter-2026-08-27.jpg":{"v":[[160,"photos/litter-2026-08-27.160.bcb889d9.jpg"],[320,"photos/litter-2026-08-27.320.bcb889d9.jpg"],[640,"photos/litter-2026-08-27.640.bcb889d9.jpg"],[960,"photos/litter-2026-08-27.960.bcb889d9.jpg"]],"w":1400},"photos/mother-2.jpg":{"v":[[160,"photos/mother-2.160.55c3d426.jpg"],[320,"photos/mother-2.320.55c3d426.jpg"],[640,"photos/mother-2.640.55c3d426.jpg"],[960,"photos/mother-2.960.55c3d426.jpg"]],"w":1600},"photos/mother.jpg":{"v":[[160,"photos/mother.160.82c16a60.jpg"],[320,"photos/mother.320.82c16a60.jpg"],[640,"photos/mother.640.82c16a60.jpg"],[960,"photos/mother.960.82c16a60.jpg"]],"w":1600},"photos/sundae.jpg":{"v":[[160,"photos/sundae.160.9a03d75c.jpg"],[320,"photos/sundae.320.9a03d75c.jpg"],[640,"photos/sundae.640.9a03d75c.jpg"],[960,"photos/sundae.960.9a03d75c.jpg"]],"w":1000},"photos/teddy.jpg":{"v":[[160,"photos/teddy.160.9068ff3a.jpg"],[320,"photos/teddy.320.9068ff3a.jpg"],[640,"photos/teddy.640.9068ff3a.jpg"],[960,"photos/teddy.960.9068ff3a.jpg"]],"w":1000}}</script>
 
 <script id="litterIndex" type="application/json">[{"born":"2026-08-27","count":"Six born","kits":[],"line":"Holland Lop cross","never":false,"no":"Third litter","parents":{"mother":"lop","father":"angora"},"roles":["father","mother"]},{"born":"2026-07-28","count":"Six born, four raised","kits":[{"addr":"butterscotch","name":"Butterscotch"},{"addr":"cloud","name":"Cloud"},{"addr":"sundae","name":"Sundae"},{"addr":"teddy","name":"Teddy"}],"line":"Holland Lop cross","never":false,"no":"Second litter","parents":{"mother":"lop","father":"angora"},"roles":["father","mother"]},{"born":"2026-06-28","count":"Five born, four raised","kits":[],"line":"Holland Lop cross","never":true,"no":"First litter","parents":{"mother":"lop","father":"angora"},"roles":["father","mother"]}]</script>
 <script src="rabbits.js?v=5366a634"></script>
